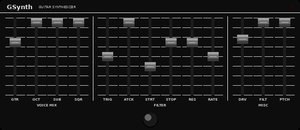
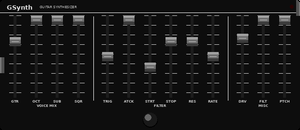
Fix ModGUI: port visibility, port positioning, slider handles
overflow:hidden was clipping port connectors (positioned at -22px
outside the container). Removed it so both ports are visible.

Output port repositioned to top-right corner as requested; input port
stays at left-side centre.

Slider handles were invisible due to extra wrapper nesting and wrong
sprite dimensions (40×160 instead of the standard 44×170px MOD frame).
Removed the gs-track-bg div and replaced it with a CSS ::before
pseudo-element so mod-slider is a direct child of gs-slider, matching
what MOD's widget JS expects. Restored standard 44×170px sprite dims.

Updated screenshot and thumbnail.

https://claude.ai/code/session_014Uz7HUDqZNeML93dWXHh64

Changed region(s): [[0.0, 0.0, 1.0, 0.8308]]

diff --git a/gsynth.lv2/modgui/icon-gsynth.html b/gsynth.lv2/modgui/icon-gsynth.html
@@ -15,29 +15,25 @@
         <div class="gs-group">
             <div class="gs-sliders">
                 <div class="gs-slider">
-                    <div class="gs-track-bg"></div>
-                    <div class="mod-slider gs-slider-inner">
+                    <div class="mod-slider">
                         <div class="mod-slider-image" mod-role="input-control-port" mod-port-symbol="guitar"></div>
                     </div>
                     <span class="gs-label">GTR</span>
                 </div>
                 <div class="gs-slider">
-                    <div class="gs-track-bg"></div>
-                    <div class="mod-slider gs-slider-inner">
+                    <div class="mod-slider">
                         <div class="mod-slider-image" mod-role="input-control-port" mod-port-symbol="octave"></div>
                     </div>
                     <span class="gs-label">OCT</span>
                 </div>
                 <div class="gs-slider">
-                    <div class="gs-track-bg"></div>
-                    <div class="mod-slider gs-slider-inner">
+                    <div class="mod-slider">
                         <div class="mod-slider-image" mod-role="input-control-port" mod-port-symbol="sub_octave"></div>
                     </div>
                     <span class="gs-label">SUB</span>
                 </div>
                 <div class="gs-slider">
-                    <div class="gs-track-bg"></div>
-                    <div class="mod-slider gs-slider-inner">
+                    <div class="mod-slider">
                         <div class="mod-slider-image" mod-role="input-control-port" mod-port-symbol="square"></div>
                     </div>
                     <span class="gs-label">SQR</span>
@@ -52,43 +48,37 @@
         <div class="gs-group">
             <div class="gs-sliders">
                 <div class="gs-slider">
-                    <div class="gs-track-bg"></div>
-                    <div class="mod-slider gs-slider-inner">
+                    <div class="mod-slider">
                         <div class="mod-slider-image" mod-role="input-control-port" mod-port-symbol="trigger"></div>
                     </div>
                     <span class="gs-label">TRIG</span>
                 </div>
                 <div class="gs-slider">
-                    <div class="gs-track-bg"></div>
-                    <div class="mod-slider gs-slider-inner">
+                    <div class="mod-slider">
                         <div class="mod-slider-image" mod-role="input-control-port" mod-port-symbol="attack_delay"></div>
                     </div>
                     <span class="gs-label">ATCK</span>
                 </div>
                 <div class="gs-slider">
-                    <div class="gs-track-bg"></div>
-                    <div class="mod-slider gs-slider-inner">
+                    <div class="mod-slider">
                         <div class="mod-slider-image" mod-role="input-control-port" mod-port-symbol="start_freq"></div>
                     </div>
                     <span class="gs-label">STRT</span>
                 </div>
                 <div class="gs-slider">
-                    <div class="gs-track-bg"></div>
-                    <div class="mod-slider gs-slider-inner">
+                    <div class="mod-slider">
                         <div class="mod-slider-image" mod-role="input-control-port" mod-port-symbol="stop_freq"></div>
                     </div>
                     <span class="gs-label">STOP</span>
                 </div>
                 <div class="gs-slider">
-                    <div class="gs-track-bg"></div>
-                    <div class="mod-slider gs-slider-inner">
+                    <div class="mod-slider">
                         <div class="mod-slider-image" mod-role="input-control-port" mod-port-symbol="resonance"></div>
                     </div>
                     <span class="gs-label">RES</span>
                 </div>
                 <div class="gs-slider">
-                    <div class="gs-track-bg"></div>
-                    <div class="mod-slider gs-slider-inner">
+                    <div class="mod-slider">
                         <div class="mod-slider-image" mod-role="input-control-port" mod-port-symbol="filter_rate"></div>
                     </div>
                     <span class="gs-label">RATE</span>
@@ -103,22 +93,19 @@
         <div class="gs-group">
             <div class="gs-sliders">
                 <div class="gs-slider">
-                    <div class="gs-track-bg"></div>
-                    <div class="mod-slider gs-slider-inner">
+                    <div class="mod-slider">
                         <div class="mod-slider-image" mod-role="input-control-port" mod-port-symbol="input_drive"></div>
                     </div>
                     <span class="gs-label">DRV</span>
                 </div>
                 <div class="gs-slider">
-                    <div class="gs-track-bg"></div>
-                    <div class="mod-slider gs-slider-inner">
+                    <div class="mod-slider">
                         <div class="mod-slider-image" mod-role="input-control-port" mod-port-symbol="filter_type"></div>
                     </div>
                     <span class="gs-label">FILT</span>
                 </div>
                 <div class="gs-slider">
-                    <div class="gs-track-bg"></div>
-                    <div class="mod-slider gs-slider-inner">
+                    <div class="mod-slider">
                         <div class="mod-slider-image" mod-role="input-control-port" mod-port-symbol="pitch_track"></div>
                     </div>
                     <span class="gs-label">PTCH</span>

diff --git a/gsynth.lv2/modgui/stylesheet-gsynth.css b/gsynth.lv2/modgui/stylesheet-gsynth.css
@@ -12,7 +12,7 @@
                 inset 0 1px 0 rgba(255,255,255,0.04);
     color: #c8c8c8;
     font-family: "Helvetica Neue", Arial, sans-serif;
-    overflow: hidden;
+    /* No overflow:hidden — port connectors extend outside the box */
 }
 
 /* = HEADER =============================================================== */
@@ -109,33 +109,34 @@
 /* = INDIVIDUAL SLIDER CELL =============================================== */
 .mod-pedal-gsynth{{{cns}}} .gs-slider {
     position: relative;
-    width: 40px;
+    width: 44px;
     display: flex;
     flex-direction: column;
     align-items: center;
     flex-shrink: 0;
 }
 
-/* Graduation lines track — drawn behind the handle sprite */
-.mod-pedal-gsynth{{{cns}}} .gs-track-bg {
+/* Graduation lines + groove drawn as a pseudo-element behind the handle */
+.mod-pedal-gsynth{{{cns}}} .gs-slider::before {
+    content: "";
     position: absolute;
     top: 0;
     left: 50%;
-    width: 20px;
-    margin-left: -10px;
-    height: 160px;
+    width: 24px;
+    height: 170px;
+    margin-left: -12px;
     pointer-events: none;
-    /* Narrow groove in the centre */
+    z-index: 0;
     background:
-        /* groove */
+        /* narrow dark groove in the centre */
         linear-gradient(
             to right,
-            transparent 7px,
-            #1c1c1c 7px,
-            #1c1c1c 13px,
-            transparent 13px
+            transparent 9px,
+            #1c1c1c 9px,
+            #1c1c1c 15px,
+            transparent 15px
         ),
-        /* graduation ticks — horizontal lines every 20px */
+        /* graduation ticks — 1 px line every 20 px */
         repeating-linear-gradient(
             to bottom,
             rgba(210,210,210,0.10) 0px,
@@ -145,19 +146,21 @@
         );
 }
 
-/* The mod-slider wrapper must be positioned so MOD can move the sprite */
-.mod-pedal-gsynth{{{cns}}} .gs-slider-inner {
-    width: 40px;
-    height: 160px;
+/* mod-slider wrapper — sits on top of the ::before track */
+.mod-pedal-gsynth{{{cns}}} .gs-slider .mod-slider {
     position: relative;
+    z-index: 1;
+    width: 44px;
+    height: 170px;
 }
 
-.mod-pedal-gsynth{{{cns}}} .gs-slider-inner .mod-slider-image {
+/* Slider handle sprite — standard MOD dimensions */
+.mod-pedal-gsynth{{{cns}}} .gs-slider .mod-slider .mod-slider-image {
     background-image: url(/resources/pedals/slider.png{{{ns}}});
     background-repeat: no-repeat;
-    background-size: auto 160px;
-    height: 160px;
-    width: 40px;
+    background-size: auto 170px;
+    height: 170px;
+    width: 44px;
     cursor: pointer;
 }
 
@@ -171,6 +174,8 @@
     opacity: 0.45;
     margin-top: 3px;
     text-transform: uppercase;
+    position: relative;
+    z-index: 1;
 }
 
 /* = FOOTSWITCH =========================================================== */
@@ -198,7 +203,11 @@
     background: radial-gradient(circle at 35% 30%, #888, #333 65%, #1a1a1a);
 }
 
-/* = AUDIO I/O ============================================================ */
+/* = AUDIO I/O ============================================================
+   Ports extend just outside the pedal border — requires no overflow:hidden.
+   Input : left side, vertically centred.
+   Output: top-right corner, as requested.
+   ======================================================================== */
 .mod-pedal-gsynth{{{cns}}} .mod-pedal-input {
     position: absolute;
     left: -22px;
@@ -211,8 +220,7 @@
 .mod-pedal-gsynth{{{cns}}} .mod-pedal-output {
     position: absolute;
     right: -22px;
-    top: 50%;
+    top: 0;
     width: 22px;
     height: 32px;
-    margin-top: -16px;
 }
